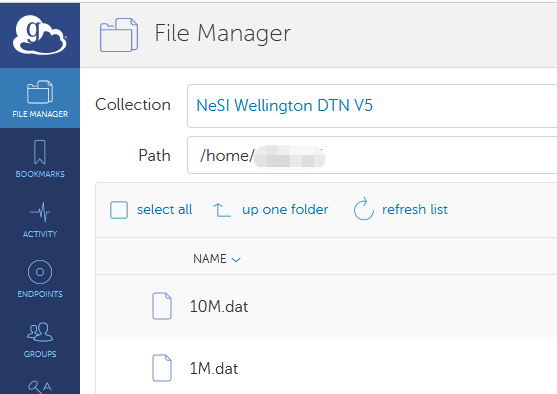
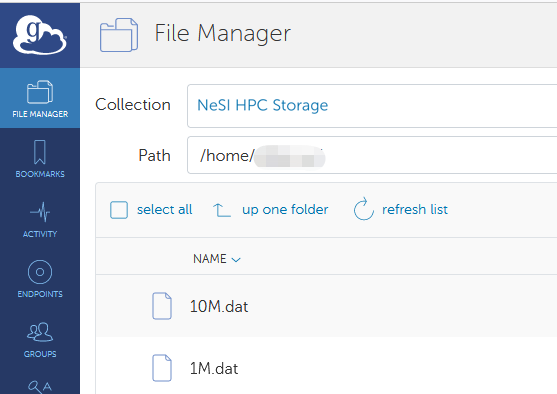
More Globus screenshots and auth instruction updates (#726)

Changed region(s): [[0.3357, 0.2437, 0.6715, 0.3046]]

diff --git a/docs/Storage/Data_Transfer_Services/Globus_endpoint_activation.md b/docs/Storage/Data_Transfer_Services/Globus_endpoint_activation.md
@@ -3,7 +3,6 @@ created_at: '2021-08-27T03:41:37Z'
 tags: 
     - data
     - globus
-status: deprecated
 ---
 
 ## Activating an Endpoint
@@ -11,23 +10,12 @@ status: deprecated
 When you select an endpoint to transfer data to/from, you may be asked
 to authenticate with that endpoint.
 
-*Note: The example pictured below uses an old endpoint for the NeSI platforms. The current endpoint (launched June 2025) is called 'NeSI HPC storage'.*
-
 ![mceclip0.png](../../assets/images/Globus_V5_endpoint_activation.png)  
 Transfers are only possible once you have supplied credentials that
 authenticate your access to the endpoint. This process is known as
 "activating the endpoint". The endpoint remains active for 24 hours.  
 
-The NeSI HPC Storage endpoint is protected by a second-factor
-authentication (2FA), similar to accessing NeSI clusters. 
-
-In the
-'**Username'** field, enter your NeSI account username. In the
-'**Password'** field, your `Password` will be equal to
-`Login Password (First Factor)` +
-`Authenticator Code (Second Factor)` e.g. `password123456`. (***Do
-not*** use any additional characters or spaces between your password and
-the token number.)
+The NeSI HPC Storage endpoint is protected by Tuakiri authentication, similar to accessing the NeSI cluster. 
 
 Check the status of your endpoints at [https://www.globus.org/app/console/endpoints](https://www.globus.org/app/console/endpoints)
 

diff --git a/docs/Storage/Data_Transfer_Services/Globus_Quick_Start_Guide.md b/docs/Storage/Data_Transfer_Services/Globus_Quick_Start_Guide.md
@@ -59,12 +59,7 @@ bar on the left.
 
 1. Next to "Collection", search for "NeSI HPC Storage", select
     it, then click "Continue".
-2. In the 'Username' field, enter your NeSI account username.
-3. In the 'Password' field, the password is
-    `Login Password (First Factor)` +
-    `Authenticator Code (Second Factor)` e.g. `password123456`. Please
-    **do not** save your password on "*Browser settings*" as it will
-    change every time due to the second-factor (2FA) requirement.
+2. Select your identity provider from the list to authenticate and continue.
 
 
 ## Transferring Data
